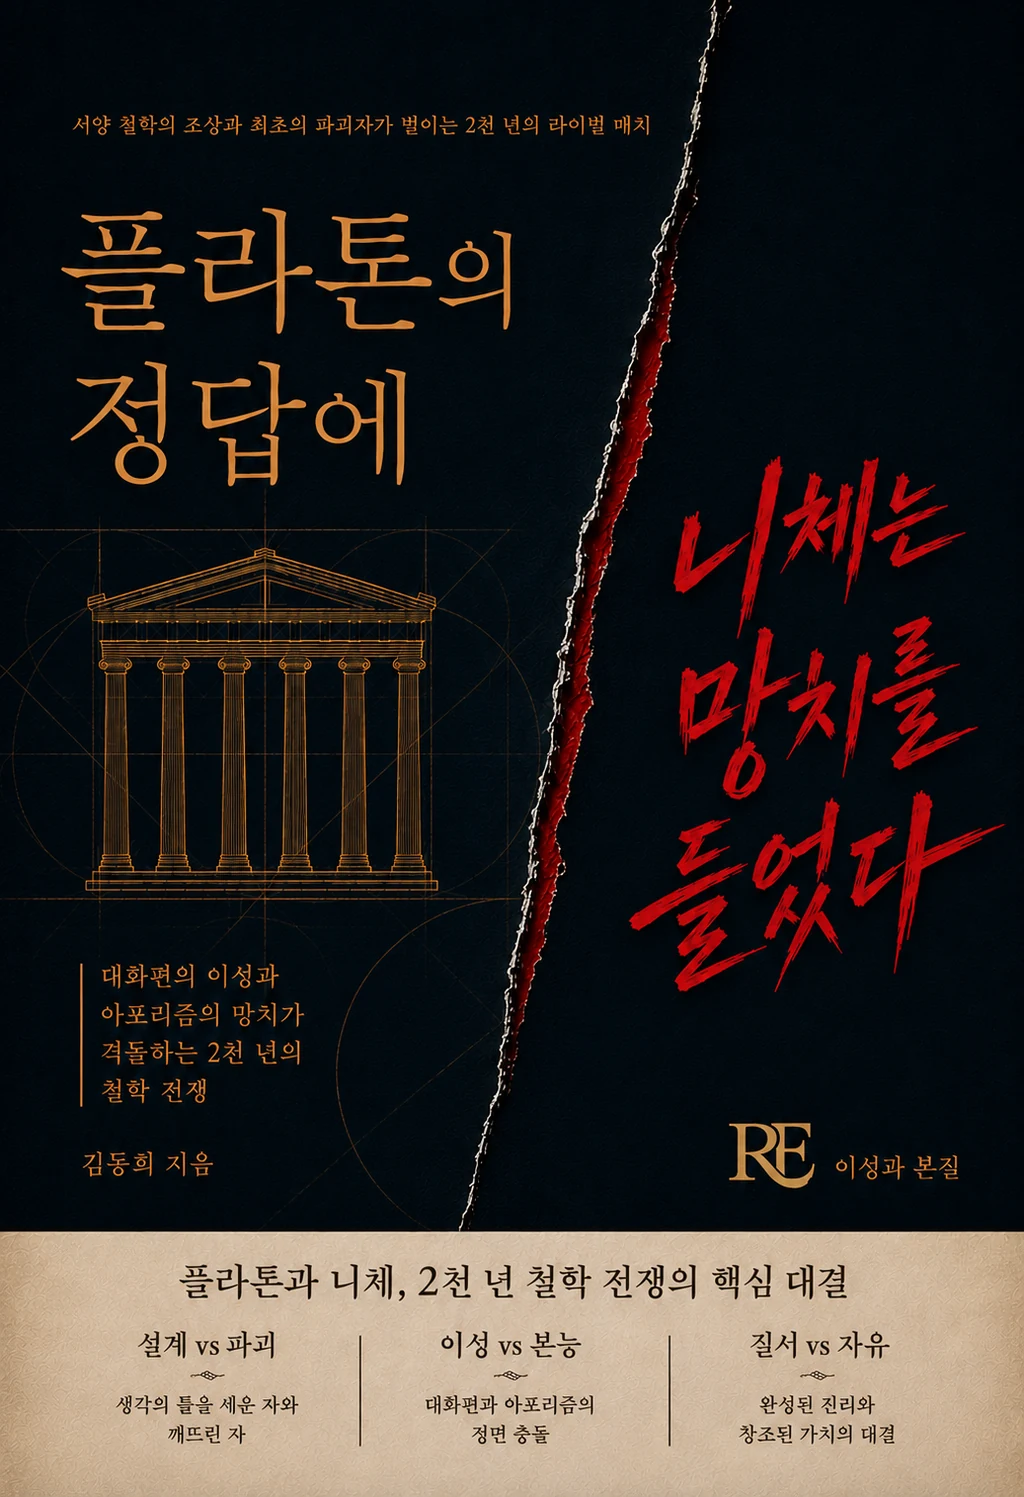
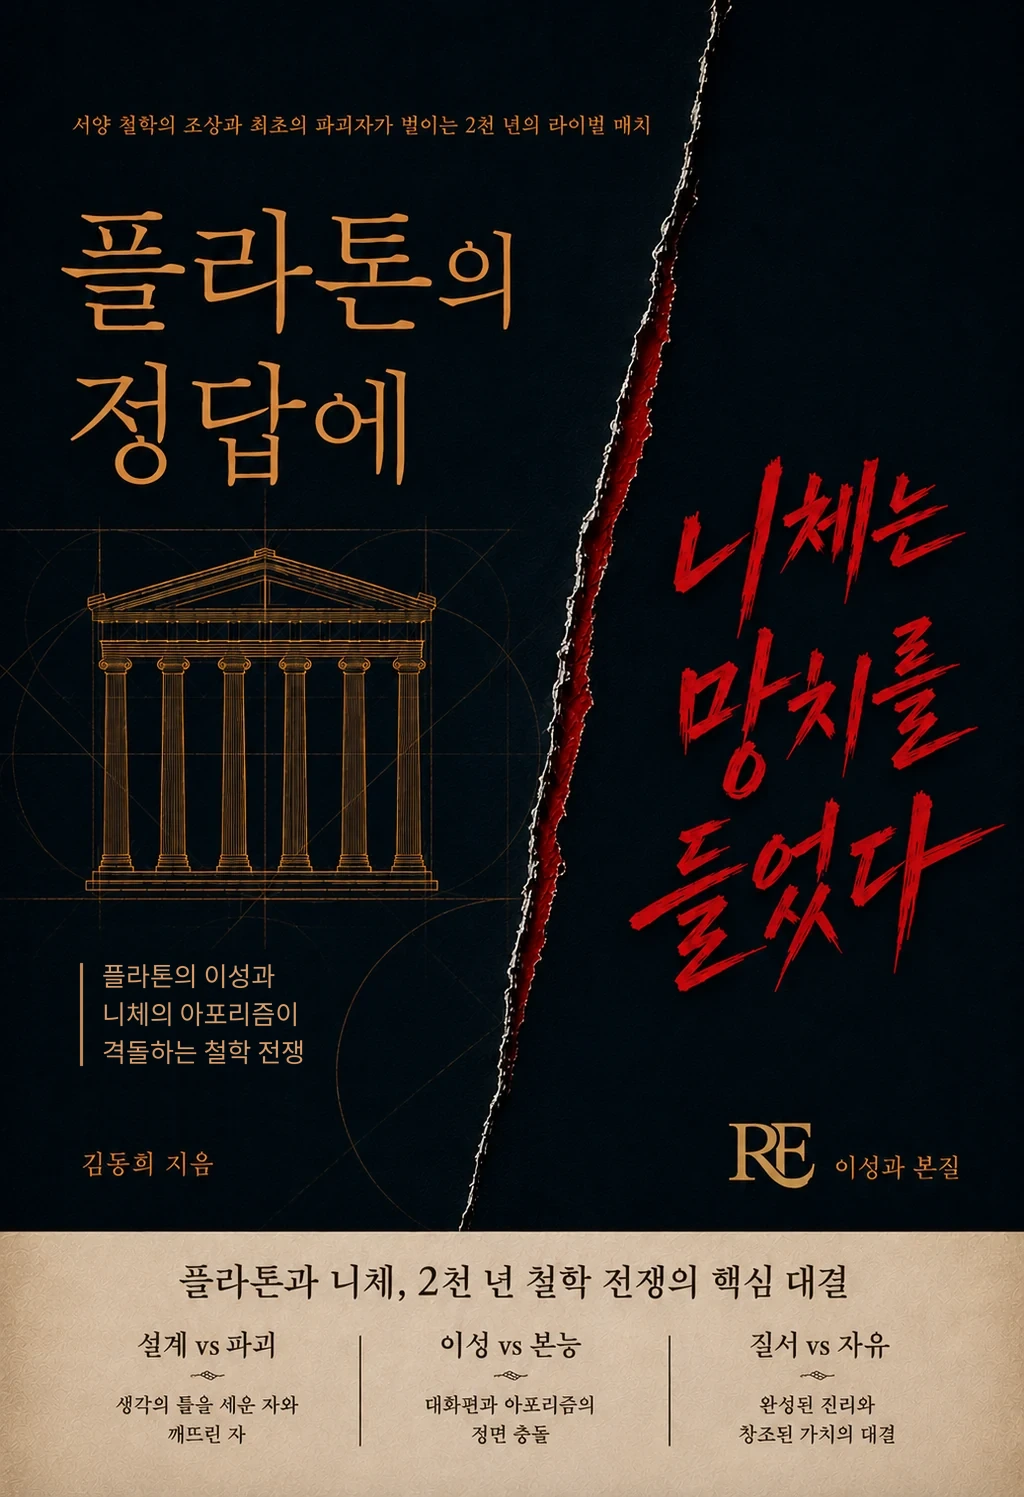
부제목 바꿈

Changed region(s): [[0.0938, 0.6453, 0.3125, 0.7375]]

diff --git a/books/plato-nietzsche.html b/books/plato-nietzsche.html
@@ -32,7 +32,7 @@
  "@context": "https://schema.org",
  "@type": "Book",
  "name": "플라톤의 정답에 니체는 망치를 들었다",
- "alternateName": "대화편의 이성과 아포리즘의 망치가 격돌하는 2천 년의 철학 전쟁",
+ "alternateName": "플라톤의 이성과 니체의 아포리즘이 격돌하는 철학 전쟁",
  "description": "설계와 파괴, 이성과 본능, 질서와 자유. 서양 철학의 조상과 최초의 파괴자가 벌이는 2천 년의 라이벌 매치. 완성된 진리와 창조된 가치가 정면으로 충돌한다.",
  "inLanguage": "ko",
  "bookFormat": "https://schema.org/EBook",
@@ -73,7 +73,7 @@
   <div class="wrap">
     <div class="eyebrow">철학 · 출간 예정</div>
     <h1>플라톤의 정답에 니체는 망치를 들었다</h1>
-    <p>대화편의 이성과 아포리즘의 망치가 격돌하는 2천 년의 철학 전쟁</p>
+    <p>플라톤의 이성과 니체의 아포리즘이 격돌하는 철학 전쟁</p>
   </div>
 </section>
 

diff --git a/js/books-data.js b/js/books-data.js
@@ -300,7 +300,7 @@ const BOOKS = [
   {
     id: "plato-nietzsche",
     title: "플라톤의 정답에 니체는 망치를 들었다",
-    subtitle: "대화편의 이성과 아포리즘의 망치가 격돌하는 2천 년의 철학 전쟁",
+    subtitle: "플라톤의 이성과 니체의 아포리즘이 격돌하는 철학 전쟁",
     category: "철학",
     status: "출간예정",
     published: false,
